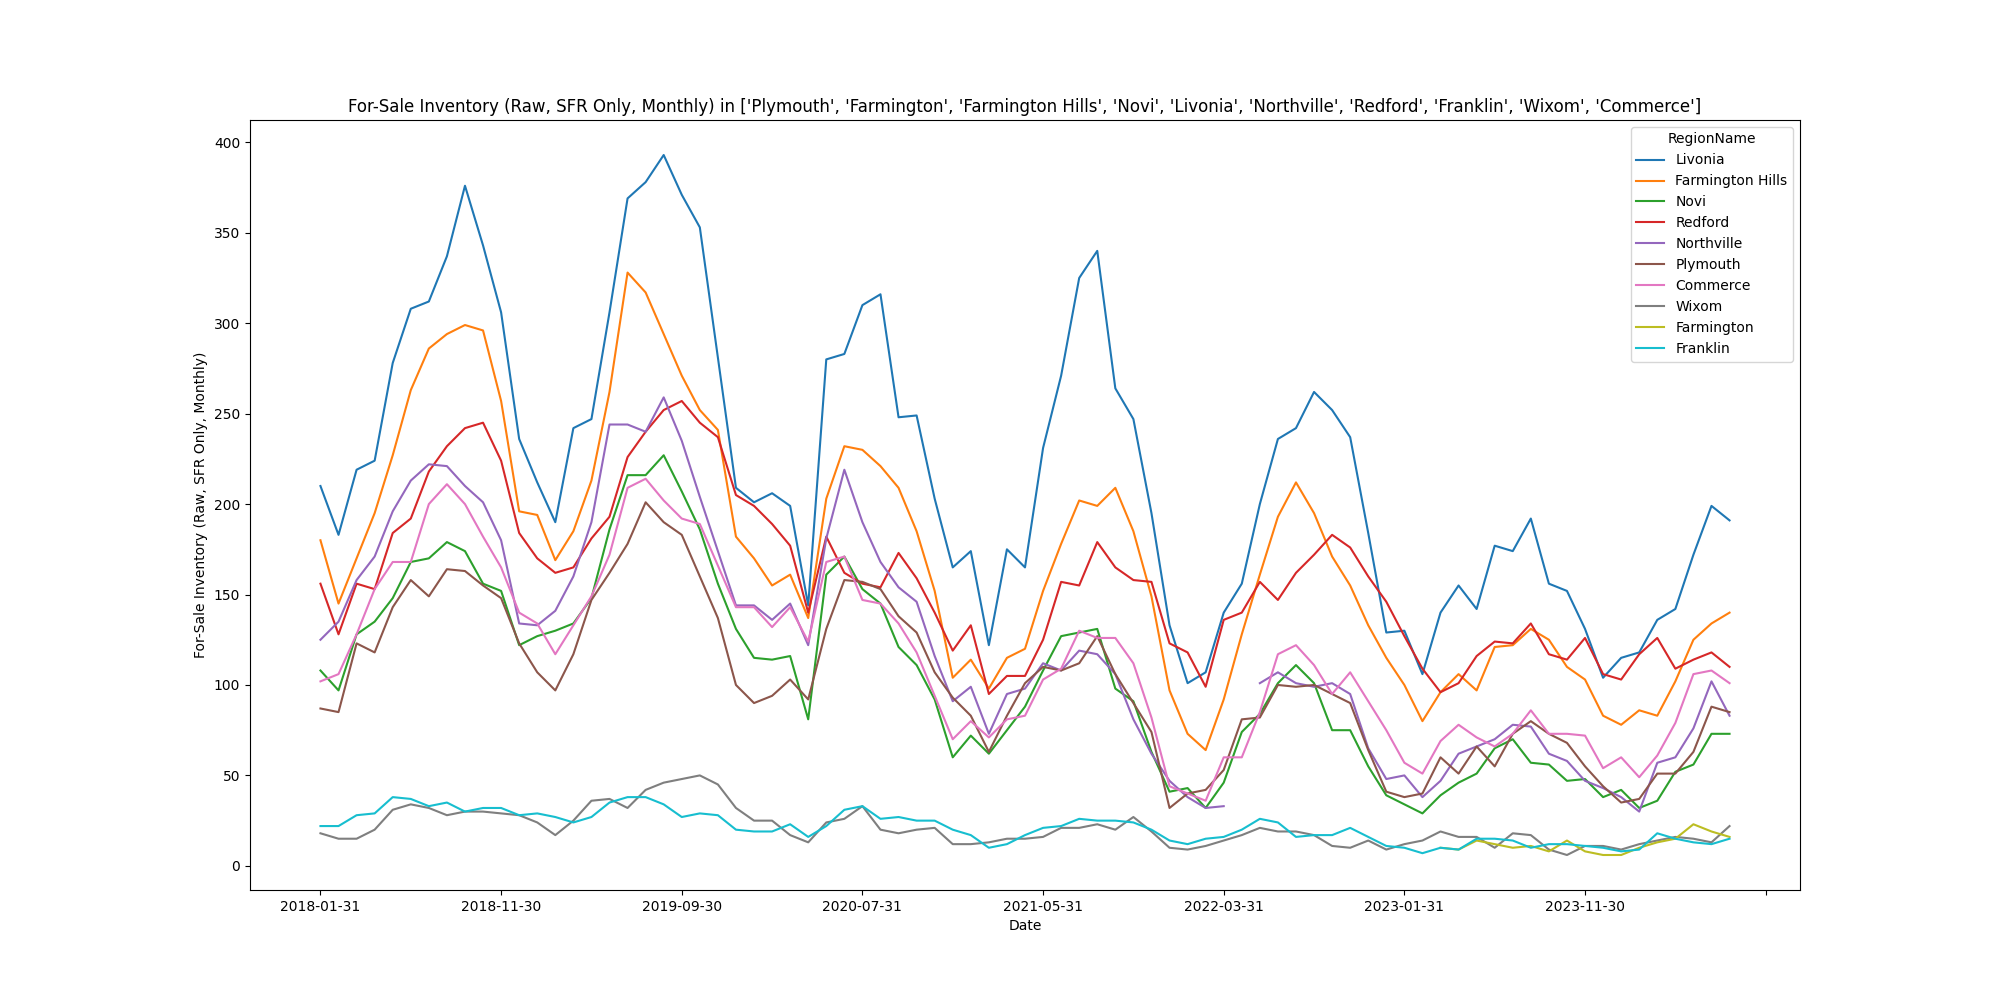
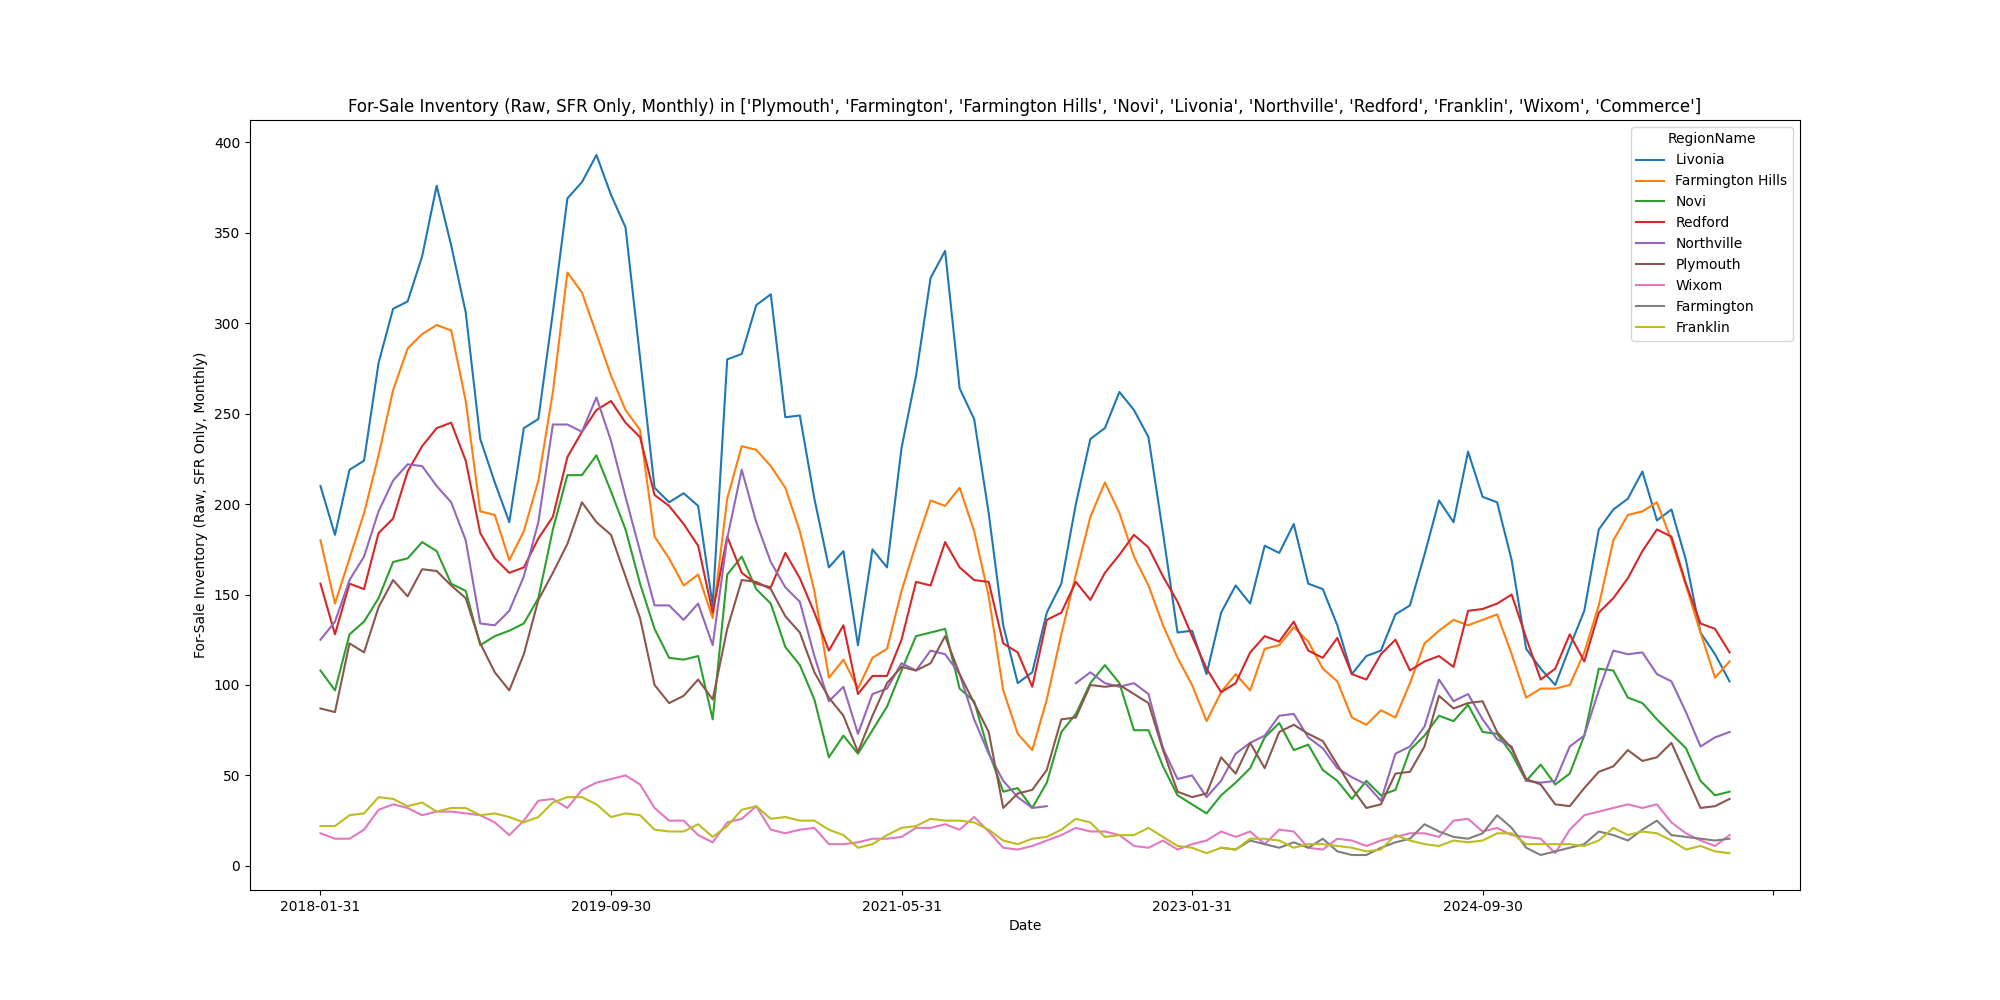
Add refresh workflow and agent guide

diff --git a/refresh.py b/refresh.py
@@ -1,0 +1,258 @@
+import argparse
+import os
+import pickle
+import re
+import sys
+from dataclasses import dataclass
+from pathlib import Path
+from typing import Iterable
+
+import pandas as pd
+import requests
+
+
+ROOT = Path(__file__).resolve().parent
+DATA_DIR = ROOT / "data"
+VIZ_DIR = ROOT / "viz"
+DOC_URLS_PATH = ROOT / "doc_urls.pickle"
+PUBLIC_BASES = (
+    "https://files.zillowstatic.com/research/public_csvs/",
+    "https://files.zillowstatic.com/research/public_v2/",
+)
+GEOGRAPHIES = ("Metro", "State", "County", "City", "Zip", "Neighborhood")
+DATE_RE = re.compile(r"^\d{4}-\d{2}-\d{2}$")
+
+
+@dataclass
+class DownloadStats:
+    downloaded: int = 0
+    skipped: int = 0
+    missing: int = 0
+    empty: int = 0
+    failed: int = 0
+
+
+def load_doc_urls() -> dict[str, str]:
+    with DOC_URLS_PATH.open("rb") as handle:
+        return pickle.load(handle)
+
+
+def iter_candidate_paths(doc_urls: dict[str, str]) -> Iterable[str]:
+    seen: set[str] = set()
+    for path in doc_urls.values():
+        if "Metro" in path:
+            for geography in GEOGRAPHIES:
+                candidate = path.replace("Metro", geography)
+                if candidate not in seen:
+                    seen.add(candidate)
+                    yield candidate
+        elif path not in seen:
+            seen.add(path)
+            yield path
+
+
+def ensure_dirs() -> None:
+    DATA_DIR.mkdir(exist_ok=True)
+    VIZ_DIR.mkdir(exist_ok=True)
+
+
+def is_non_empty_csv(path: Path) -> bool:
+    try:
+        df = pd.read_csv(path, nrows=1)
+    except pd.errors.EmptyDataError:
+        return False
+    return not df.empty
+
+
+def download_all(doc_urls: dict[str, str], session: requests.Session, resume: bool = False) -> DownloadStats:
+    stats = DownloadStats()
+    timestamp = int(pd.Timestamp.now("UTC").timestamp())
+    candidates = list(iter_candidate_paths(doc_urls))
+    total = len(candidates)
+
+    for index, path in enumerate(candidates, start=1):
+        target = DATA_DIR / path
+        target.parent.mkdir(parents=True, exist_ok=True)
+
+        if resume and target.exists() and is_non_empty_csv(target):
+            stats.skipped += 1
+            continue
+
+        downloaded = False
+        for base in PUBLIC_BASES:
+            url = f"{base}{path}?t={timestamp}"
+            try:
+                response = session.get(url, timeout=120)
+            except requests.RequestException as exc:
+                print(f"[download] request failed for {path} via {base}: {exc}")
+                continue
+
+            if response.status_code != 200:
+                continue
+
+            target.write_bytes(response.content)
+            if not is_non_empty_csv(target):
+                target.unlink(missing_ok=True)
+                stats.empty += 1
+                print(f"[download] empty csv removed: {path}")
+            else:
+                stats.downloaded += 1
+                print(f"[download] {index}/{total} saved {path}")
+            downloaded = True
+            break
+
+        if downloaded:
+            continue
+
+        stats.missing += 1
+        print(f"[download] {index}/{total} unavailable: {path}")
+
+    return stats
+
+
+def date_columns(df: pd.DataFrame) -> list[str]:
+    return [column for column in df.columns if DATE_RE.match(str(column))]
+
+
+def prepare_plot_environment() -> None:
+    mpl_config_dir = Path(os.environ.get("MPLCONFIGDIR", "/tmp/mplconfig-zillow"))
+    mpl_config_dir.mkdir(parents=True, exist_ok=True)
+    os.environ["MPLCONFIGDIR"] = str(mpl_config_dir)
+
+    import matplotlib
+
+    matplotlib.use("Agg")
+
+
+def make_selections() -> dict[str, tuple[list[object], str | None]]:
+    return {
+        "Metro": (["Ann Arbor, MI", "Detroit, MI"], "MI"),
+        "Zip": ([48374, 48375, 48167, 48335, 48336, 48152, 48240, 48168, 48154, 48239, 48170, 48150], "MI"),
+        "City": (["Plymouth", "Farmington", "Farmington Hills", "Novi", "Livonia", "Northville", "Redford", "Franklin", "Wixom", "Commerce"], "MI"),
+        "County": (["Oakland County", "Wayne County", "Livingston County", "Washtenaw County", "Genesee County"], "MI"),
+        "State": (["Michigan", "Oregon", "Washington", "California", "Colorado", "Utah"], None),
+        "Neighborhood": (["SMB Estates", "Clements Circle", "Coventry Gardens", "Woodbury Park", "Willow Woods"], "MI"),
+    }
+
+
+def plot_all(doc_urls: dict[str, str]) -> int:
+    prepare_plot_environment()
+    import matplotlib.pyplot as plt
+
+    selections = make_selections()
+    plots_written = 0
+    seen_paths: set[str] = set()
+
+    for description, original_path in doc_urls.items():
+        for geography, (regions, state_name) in selections.items():
+            path = original_path.replace("Metro", geography) if "Metro" in original_path else original_path
+            if path in seen_paths:
+                continue
+            if not Path(path).name.startswith(f"{geography}_"):
+                continue
+            seen_paths.add(path)
+
+            csv_path = DATA_DIR / path
+            if not csv_path.exists():
+                continue
+
+            try:
+                df = pd.read_csv(csv_path, low_memory=False)
+            except UnicodeDecodeError:
+                df = pd.read_csv(csv_path, encoding="latin-1", low_memory=False)
+            except Exception as exc:
+                print(f"[viz] failed to read {path}: {exc}")
+                continue
+
+            if state_name and "StateName" in df.columns:
+                df = df[df["StateName"] == state_name]
+            if "RegionName" not in df.columns:
+                continue
+
+            selected = df[df["RegionName"].isin(regions)].set_index("RegionName")
+            if selected.empty:
+                continue
+
+            plot_dates = date_columns(selected)
+            if not plot_dates:
+                continue
+
+            plot_df = selected[plot_dates].T.apply(pd.to_numeric, errors="coerce")
+            plot_df = plot_df.dropna(axis=0, how="all").dropna(axis=1, how="all")
+            if plot_df.empty:
+                continue
+
+            try:
+                ax = plot_df.plot(
+                    figsize=(20, 10),
+                    xlabel="Date",
+                    ylabel=description,
+                    title=f"{description} in {regions}",
+                )
+                figure = ax.get_figure()
+                output_path = VIZ_DIR / f"{Path(path).name}.png"
+                figure.savefig(output_path)
+                plt.close(figure)
+                plots_written += 1
+                print(f"[viz] wrote {output_path.relative_to(ROOT)}")
+            except Exception as exc:
+                print(f"[viz] failed to plot {path}: {exc}")
+                continue
+
+    return plots_written
+
+
+def latest_date_for(path: str) -> str | None:
+    csv_path = DATA_DIR / path
+    if not csv_path.exists():
+        return None
+    try:
+        df = pd.read_csv(csv_path, nrows=1)
+    except Exception:
+        return None
+    dates = date_columns(df)
+    return dates[-1] if dates else None
+
+
+def parse_args() -> argparse.Namespace:
+    parser = argparse.ArgumentParser(description="Refresh Zillow public data and plots.")
+    parser.add_argument("--skip-download", action="store_true", help="Use existing ./data instead of redownloading.")
+    parser.add_argument("--skip-viz", action="store_true", help="Skip plot generation.")
+    parser.add_argument("--resume", action="store_true", help="Skip valid CSVs that already exist in ./data.")
+    return parser.parse_args()
+
+
+def main() -> int:
+    args = parse_args()
+    ensure_dirs()
+    doc_urls = load_doc_urls()
+
+    session = requests.Session()
+    session.headers.update({"User-Agent": "zillow-public-data-refresh/1.0"})
+
+    if not args.skip_download:
+        stats = download_all(doc_urls, session, resume=args.resume)
+        print(
+            "[summary] downloads="
+            f"{stats.downloaded} skipped={stats.skipped} missing={stats.missing} empty={stats.empty} failed={stats.failed}"
+        )
+
+    if not args.skip_viz:
+        plots_written = plot_all(doc_urls)
+        print(f"[summary] plots={plots_written}")
+
+    sample_paths = [
+        "zhvi/Metro_zhvi_uc_sfrcondo_tier_0.33_0.67_sm_sa_month.csv",
+        "median_sale_price/Metro_median_sale_price_uc_sfrcondo_sm_month.csv",
+        "invt_fs/City_invt_fs_uc_sfr_month.csv",
+    ]
+    for sample_path in sample_paths:
+        latest = latest_date_for(sample_path)
+        if latest:
+            print(f"[latest] {sample_path} -> {latest}")
+
+    return 0
+
+
+if __name__ == "__main__":
+    sys.exit(main())

diff --git a/AGENTS.md b/AGENTS.md
@@ -1,0 +1,34 @@
+# AGENTS.md
+
+## Project Purpose
+
+This repo mirrors Zillow public CSV datasets locally and republishes a small set
+of example charts that are referenced from the README.
+
+## Repo Layout
+
+- `doc_urls.pickle`: cached Zillow dataset path map used to build download URLs.
+- `refresh.py`: canonical batch workflow for downloading data and regenerating
+  plots.
+- `data/`: full downloaded Zillow CSV corpus. Generated output, large, and kept
+  out of git.
+- `viz/`: full regenerated plot set. Generated output, kept out of git.
+- Root `*.png`: curated sample charts that should stay in sync with the latest
+  analytics run because the README embeds them directly.
+
+## Working Rules
+
+- Prefer `python refresh.py --resume` over the notebooks for refresh work.
+- Use `python refresh.py --skip-download` when only the plots need to be rerun.
+- Expect many 404s. Zillow does not publish every dataset for every geography.
+- Do not commit `data/` or `viz/` unless the user explicitly asks for large
+  generated artifacts and confirms the storage plan.
+- When publishing a refresh, update the tracked root PNGs from `viz/` so the
+  README examples reflect the current data.
+
+## Validation
+
+1. Run `python refresh.py --resume`.
+2. Confirm the `[summary]` and `[latest]` lines look sane.
+3. If the refresh is meant to be published, copy the five tracked root PNGs from
+   `viz/` and verify the README still points at those filenames.
